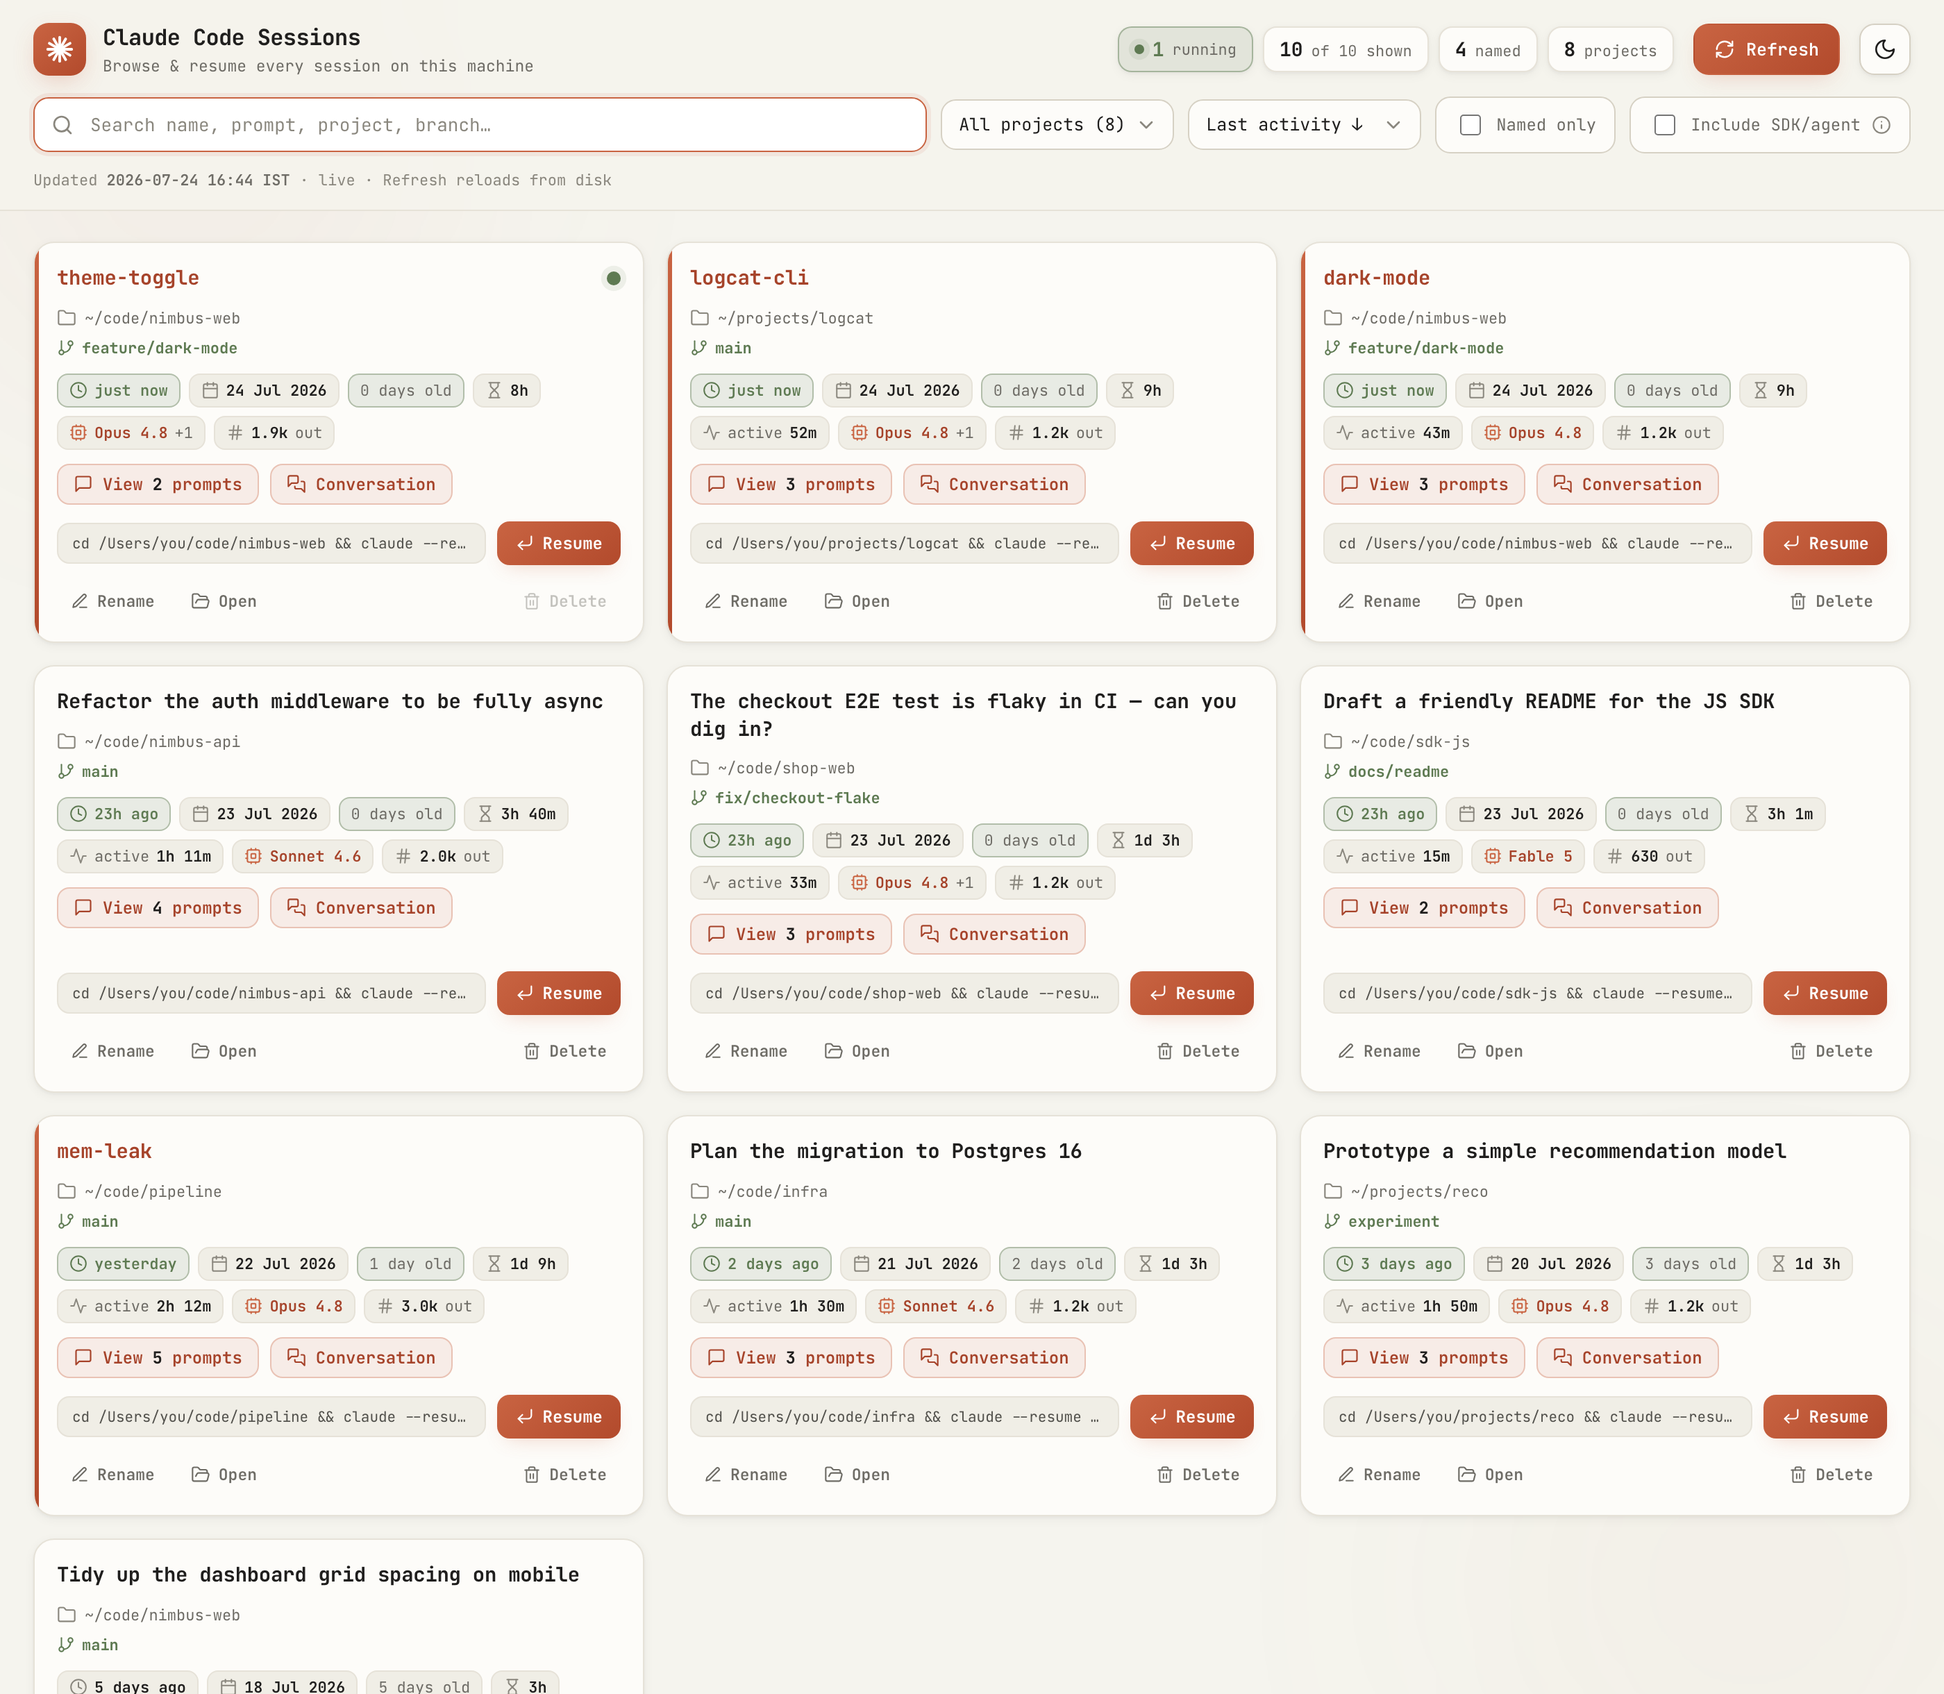
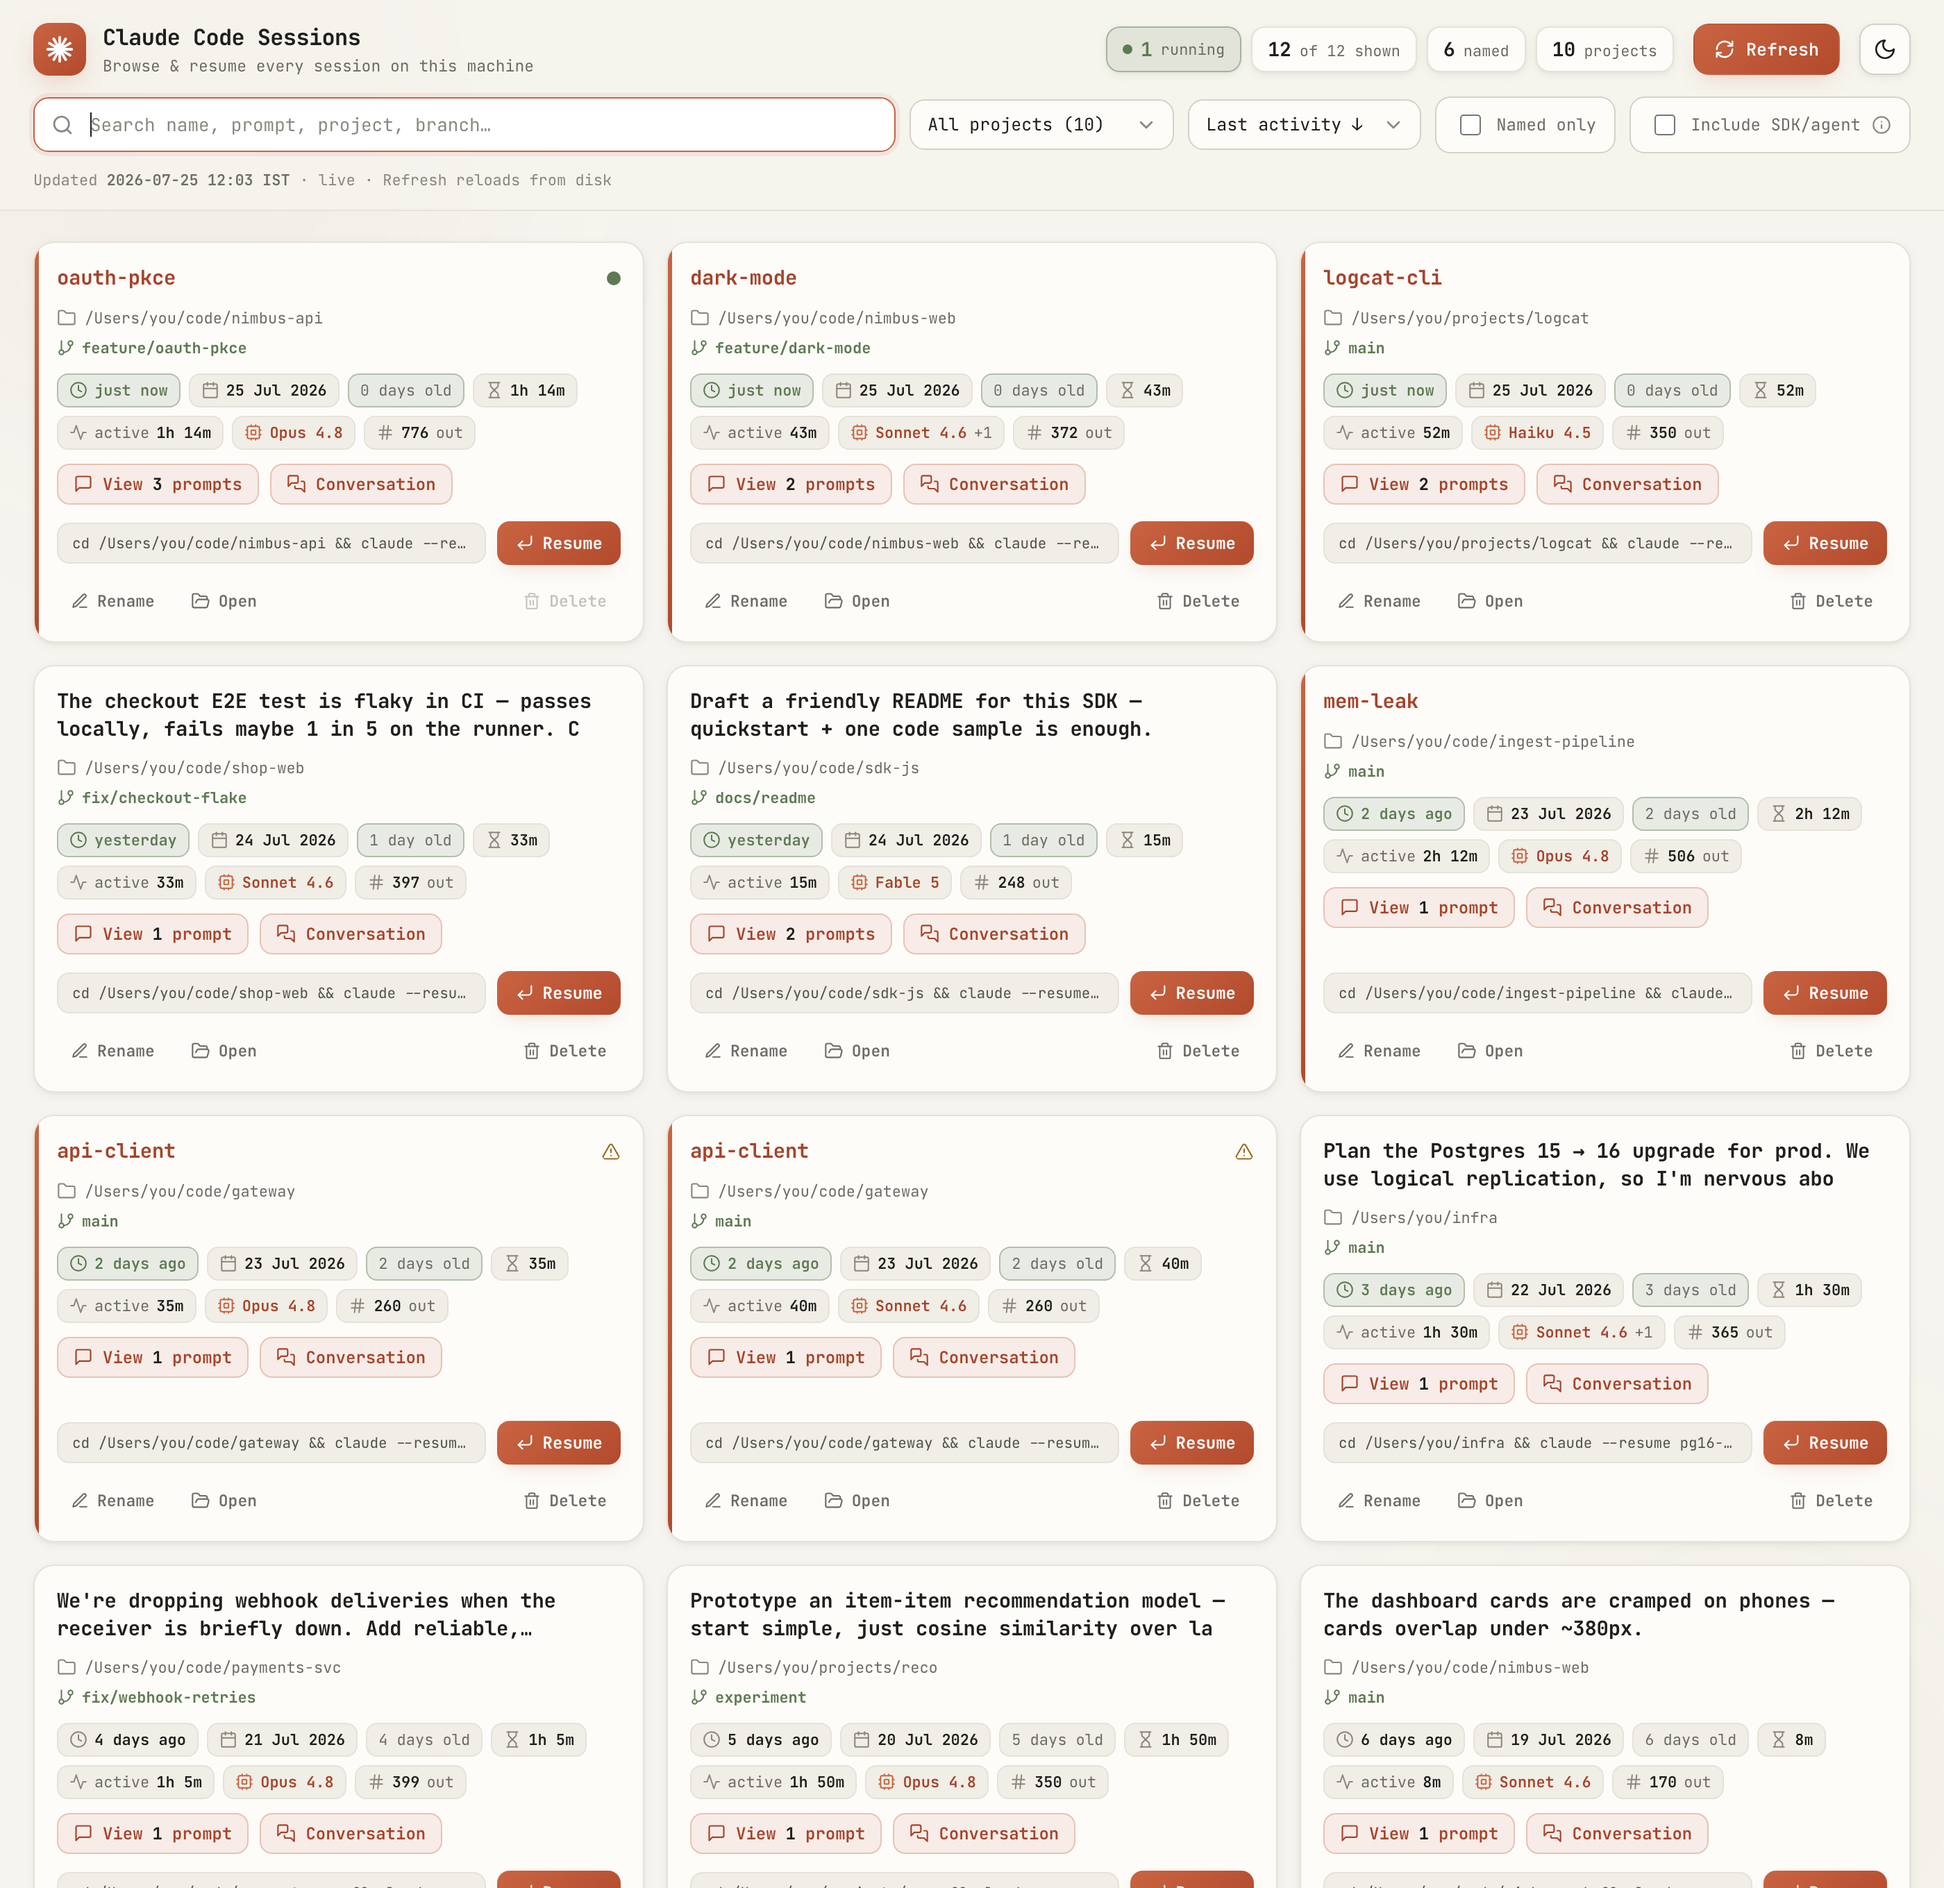
feat: --demo mode with a set of fictional demo sessions
Adds 'claude-sessions --demo', which materializes ~12 fully-fictional sessions to an isolated dir (~/.claude/claude-sessions-demo) and serves them with every feature populated — mixed models, token usage, a live 'running' session, a named/shared pair, and Markdown conversations. Never reads or touches ~/.claude/projects. README + screenshots updated to the demo output.

diff --git a/README.md b/README.md
@@ -11,6 +11,8 @@ No more digging through `~/.claude/projects` or guessing session names — one c
   <img alt="Claude Code Sessions dashboard" src="docs/screenshot-light.png">
 </picture>
 
+**▶ Try it in 10 seconds — no setup, no real data:**  `claude-sessions --demo`
+
 </div>
 
 ## Why
@@ -23,6 +25,7 @@ Claude Code stores each session as a `.jsonl` file under `~/.claude/projects/…
 - 🔎 **Search** across names, prompts, project paths, branches, and session ids
 - 🗂 **Filter & sort** — by project, and by last activity / oldest / duration / most prompts / named / project
 - ☑ **Named-only** and **Include SDK/agent** toggles (the latter reveals programmatic/subagent sessions, hidden by default)
+- 🎬 **Demo mode** — `--demo` fills the UI with fictional sessions to explore or screenshot; never reads your real data
 
 **Live status**
 - 🟢 **Running indicator** — a pulsing dot on sessions an agent is *actively* writing to right now (polled every few seconds)
@@ -90,6 +93,7 @@ cd claude-sessions-dashboard && chmod +x claude-sessions
 
 ```bash
 claude-sessions                 # launch the live dashboard (opens your browser)
+claude-sessions --demo          # explore a UI full of fictional sessions (never reads your real data)
 claude-sessions --all           # also include SDK/agent-spawned sessions
 claude-sessions --port 7842     # choose a preferred port
 claude-sessions --root PATH     # use a non-standard projects dir
